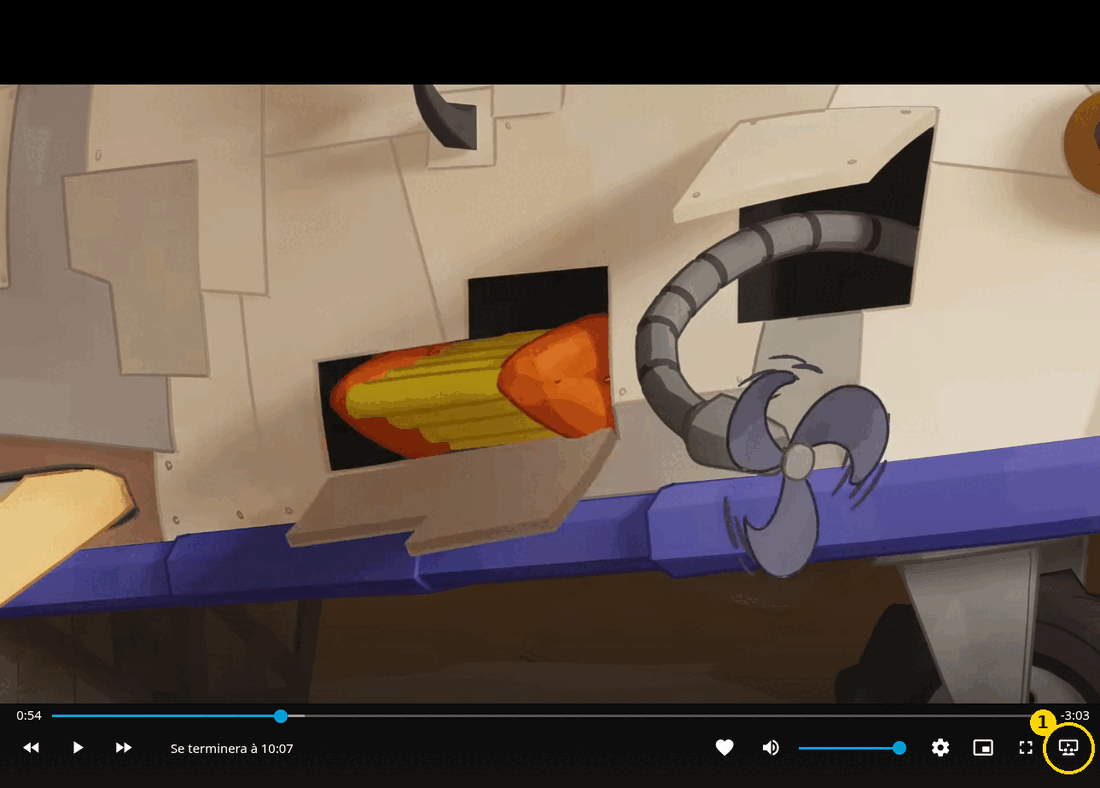
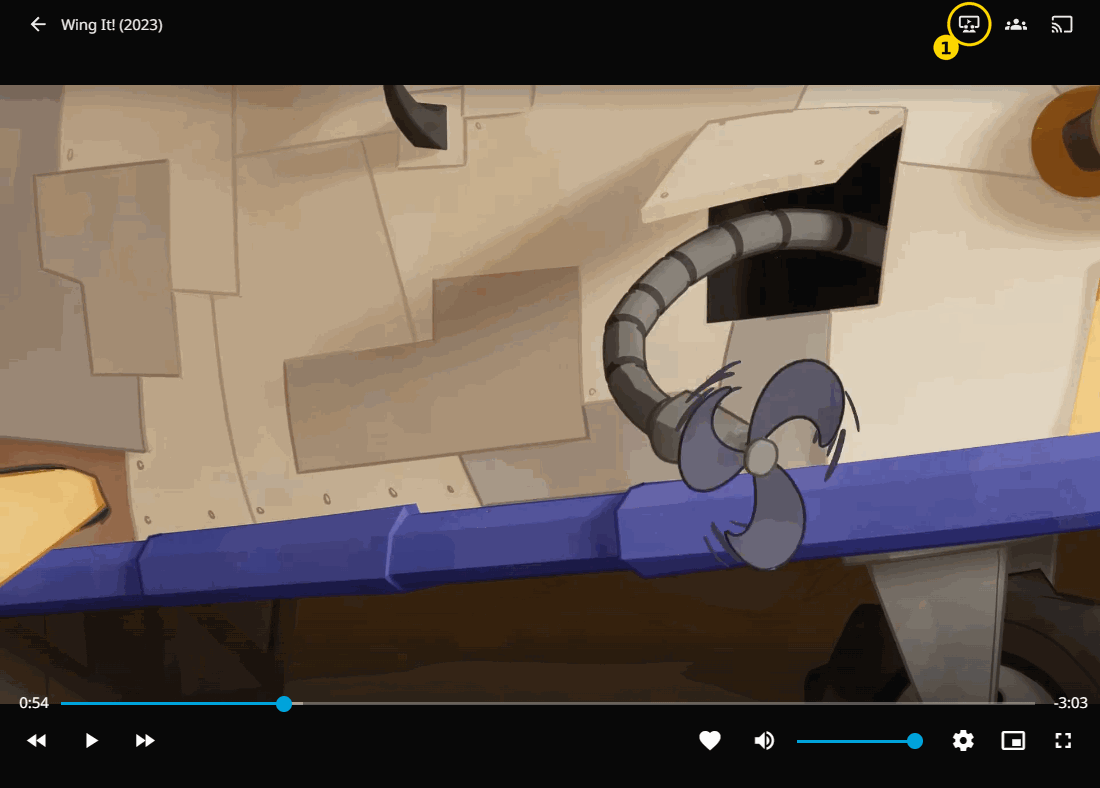
docs: re-shoot the player Watch Party screenshot after the header move
The tutorial's player screenshot still showed the button at the end of the
bottom control bar. The new one shows the player header, with the Watch
Party button circled next to SyncPlay and Cast, and it is back in the
tutorial.

diff --git a/docs/product/first-watch-party.md b/docs/product/first-watch-party.md
@@ -174,7 +174,9 @@ As the host, play **the same movie** your guest can access. For the local
 demo, choose *Wing It!* from **Blender Open Movies (Dev)**. Pause while
 your guest gets ready. Move the pointer over the video to reveal the player
 header, then select the **Watch Party** icon (a screen with two viewers)
-next to **Cast**.
+next to **SyncPlay** and **Cast**.
+
+![Jellyfin player header showing the Watch Party button circled, next to SyncPlay and Cast]({{ '/assets/images/tutorial-player-button.png' | relative_url }})
 
 **1** — This is OpenWatchParty's player button, not Jellyfin's own
 **SyncPlay** button beside it. On the pages that show the Jellyfin app bar,
